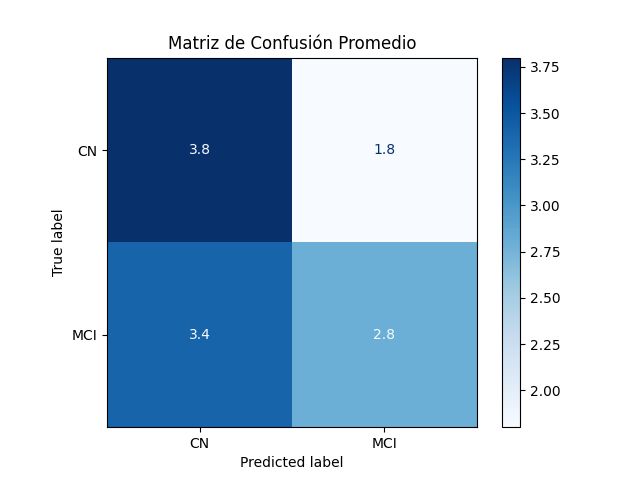
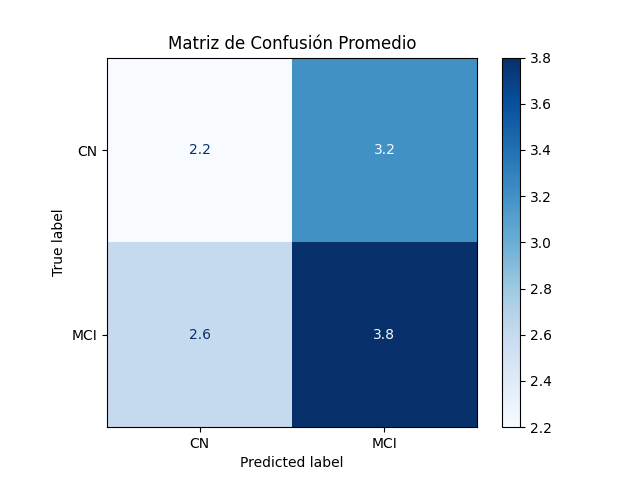
Ultimo Commit

diff --git a/src/model.py b/src/model.py
@@ -11,20 +11,30 @@ class HeteroGNN(torch.nn.Module):
         self.convs = torch.nn.ModuleList()
         self.norms = torch.nn.ModuleList()
 
+        # Capa lineal inicial para proyectar las características de los nodos 'subject' y 'region' a hidden_channels
+        self.lin_subject = torch.nn.Linear(3, hidden_channels)  # Los sujetos tienen 3 características (sexo, edad, diagnóstico)
+        self.lin_region = torch.nn.Linear(hidden_channels, hidden_channels)  # Proyección de las características de los nodos 'region'
+
         for _ in range(num_layers):
             conv = gnn.HeteroConv({
-                ('subject', 'has_region', 'region'): gnn.GraphConv((-1, -1), hidden_channels),
-                ('region', 'rev_has_region', 'subject'): gnn.GraphConv((-1, -1), hidden_channels),
-                ('region', 'is_functionally_connected', 'region'): gnn.GATConv(-1, hidden_channels, heads=2)
+                # Aseguramos que ambas convoluciones usen hidden_channels como tamaño de entrada y salida
+                ('subject', 'has_region', 'region'): gnn.GraphConv(hidden_channels, hidden_channels),
+                ('region', 'rev_has_region', 'subject'): gnn.GraphConv(hidden_channels, hidden_channels),
+                ('region', 'is_functionally_connected', 'region'): gnn.GATConv(hidden_channels, hidden_channels, heads=1)
             }, aggr='sum')
             self.convs.append(conv)
             self.norms.append(BatchNorm(hidden_channels))
 
-        self.lin_subject = torch.nn.Linear(hidden_channels, out_channels)
-        self.lin_region = torch.nn.Linear(hidden_channels, out_channels)
+        # Capas lineales finales para producir las salidas
+        self.lin_output_subject = torch.nn.Linear(hidden_channels, out_channels)
+        self.lin_output_region = torch.nn.Linear(hidden_channels, out_channels)
         self.dropout = dropout
 
     def forward(self, x_dict, edge_index_dict):
+        # Proyectar las características del nodo 'subject' y 'region' a hidden_channels
+        x_dict['subject'] = self.lin_subject(x_dict['subject'])
+        x_dict['region'] = self.lin_region(x_dict['region'])
+        
         for conv, norm in zip(self.convs, self.norms):
             x_dict = conv(x_dict, edge_index_dict)
             x_dict['subject'] = norm(x_dict['subject'])  # Normalización de nodos 'subject'
@@ -35,6 +45,6 @@ class HeteroGNN(torch.nn.Module):
             x_dict['region'] = F.dropout(x_dict['region'], p=self.dropout, training=self.training)
             
         return {
-            'subject': self.lin_subject(x_dict['subject']),
-            'region': self.lin_region(x_dict['region'])
+            'subject': self.lin_output_subject(x_dict['subject']),
+            'region': self.lin_output_region(x_dict['region'])
         }

diff --git a/src/main.py b/src/main.py
@@ -5,9 +5,10 @@ import pandas as pd
 import torch
 import torch.nn.functional as F
 import numpy as np
-from sklearn.metrics import confusion_matrix, ConfusionMatrixDisplay, classification_report, accuracy_score, f1_score, precision_score, recall_score, roc_curve, auc
+from sklearn.metrics import confusion_matrix, ConfusionMatrixDisplay, accuracy_score, f1_score, precision_score, recall_score, roc_curve, auc
 from sklearn.model_selection import KFold
 from torch_geometric.data import HeteroData
+from sklearn.metrics import precision_recall_curve
 from model import HeteroGNN
 
 # Configuración de GPU
@@ -38,7 +39,12 @@ subjects['diagnosis'] = subjects['diagnosis'].map(diagnosis_map)
 
 # Crear el grafo heterogéneo
 data = HeteroData()
-data['region'].x = torch.eye(len(regions))
+
+# Cambiar la inicialización de las características de 'region' para que coincidan con hidden_channels
+hidden_channels = 64
+data['region'].x = torch.randn(len(regions), hidden_channels)  # Inicialización aleatoria con el tamaño correcto
+
+# Proyectar las características de los nodos 'subject'
 data['subject'].x = torch.tensor(subjects[['sex', 'age', 'diagnosis']].values, dtype=torch.float)
 
 # Verificar índices de regiones y agregar relaciones
@@ -54,7 +60,6 @@ data['region', 'rev_has_region', 'subject'].edge_index = data['subject', 'has_re
 # Definir los parámetros de validación cruzada
 k_folds = 5
 kf = KFold(n_splits=k_folds, shuffle=True, random_state=42)
-hidden_channels = 64
 out_channels = 2
 num_layers = 2
 
